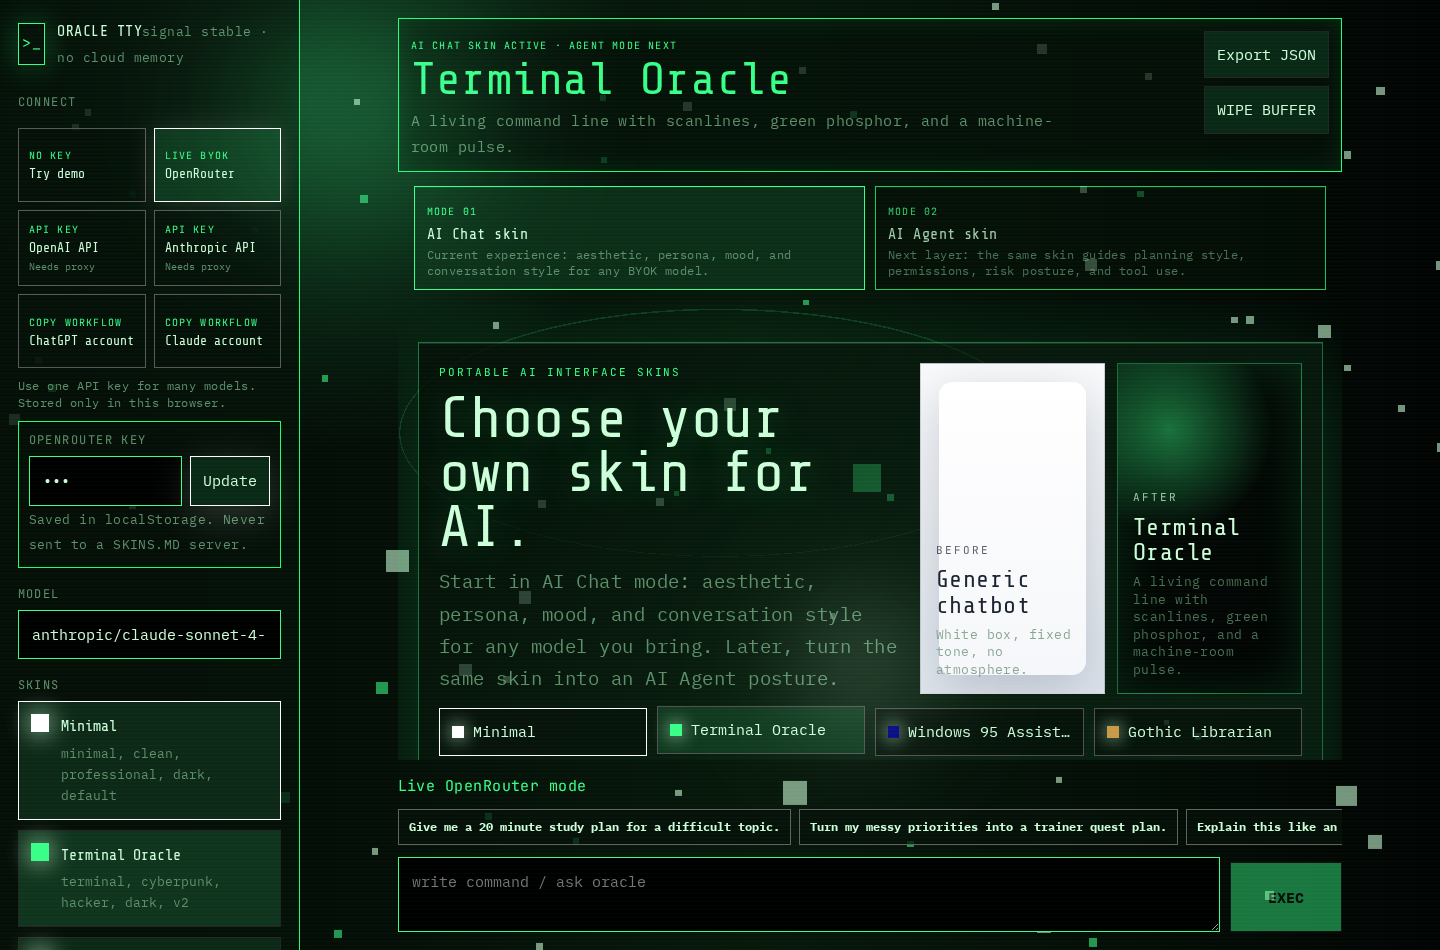
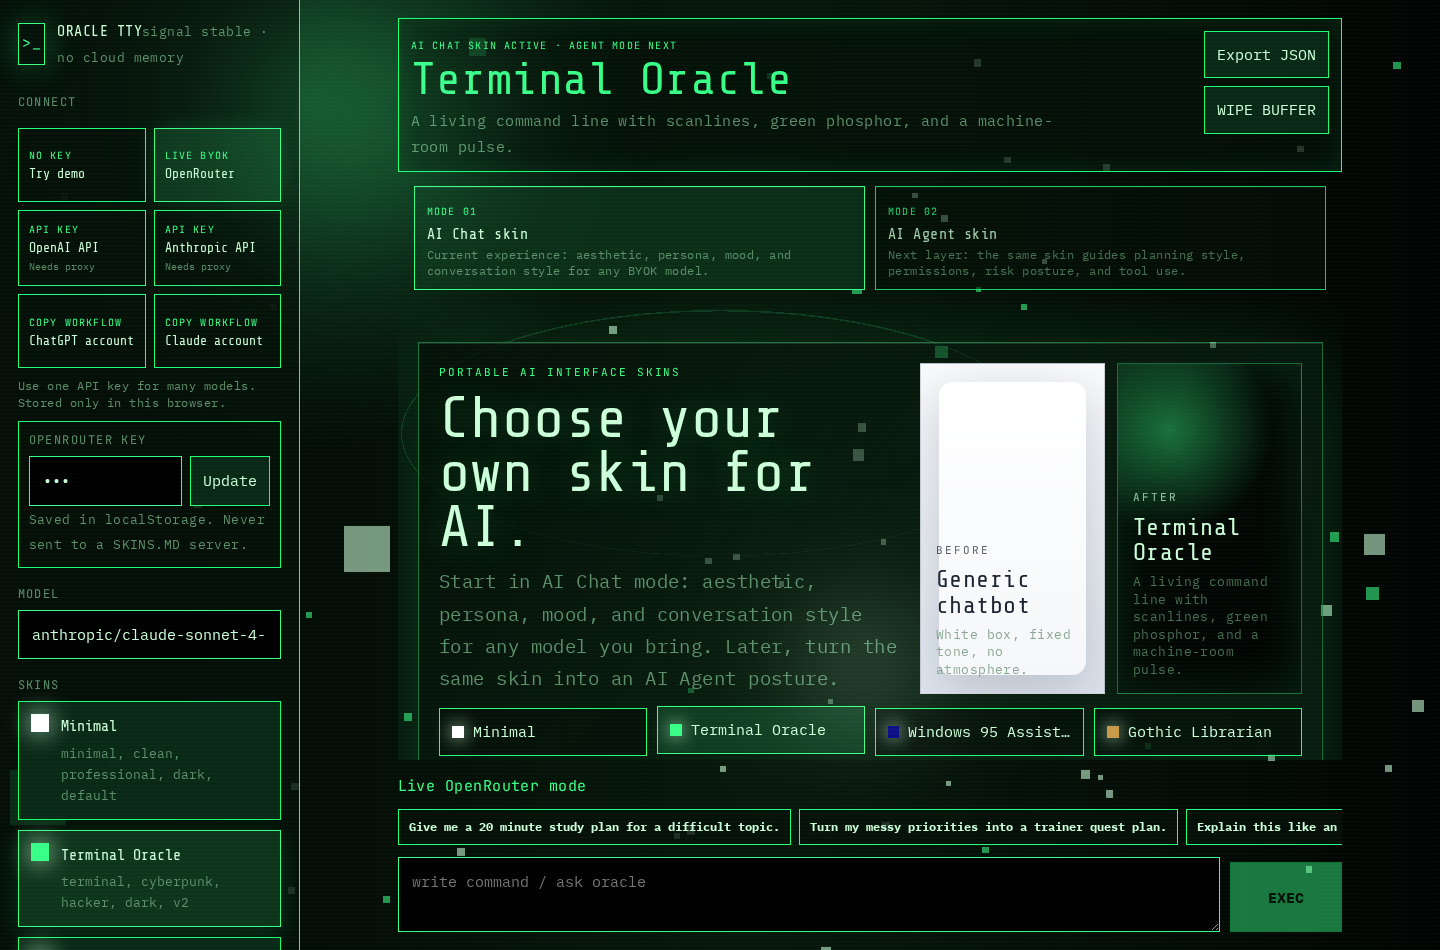
Revert "feat: simplify immersive skins with full backgrounds"
This reverts commit bb0e5864e86a04a187f2cef6a953a7c00228a27e.

diff --git a/src/styles.css b/src/styles.css
@@ -135,73 +135,3 @@ body[data-skin="pokemon-trainer"] textarea,body[data-skin="pokemon-trainer"] inp
 body[data-skin="pokemon-trainer"] .composer > button{background:linear-gradient(180deg,var(--poke-red),#b91c1c);color:#fff;border-radius:999px;font-size:17px;text-shadow:1px 1px 0 #000;}
 body[data-skin="pokemon-trainer"] .prompt-chips button{background:#fff;color:var(--poke-ink);font-size:12px;}
 body[data-skin="pokemon-trainer"] .visual-hud{border:3px solid var(--poke-ink);background:rgba(255,248,216,.94);color:var(--poke-ink);box-shadow:4px 4px 0 var(--poke-blue);}
-
-/* Immersive redesign V1: clean chat UI, full-background skin impact, hidden secondary controls. */
-.immersive-skin-shell{grid-template-columns:0 minmax(0,1fr);padding:28px 24px 30px;min-height:100vh;overflow:hidden;}
-.immersive-skin-shell .sidebar{position:fixed;left:18px;top:18px;bottom:auto;width:52px;max-height:52px;z-index:40;overflow:hidden;padding:0;border-radius:999px;background:rgba(255,255,255,.72);backdrop-filter:blur(18px);box-shadow:0 14px 40px rgba(0,0,0,.18);transition:width .2s ease,max-height .2s ease,border-radius .2s ease,padding .2s ease;}
-.immersive-skin-shell .sidebar:hover,.immersive-skin-shell .sidebar:focus-within{width:min(330px,calc(100vw - 36px));max-height:calc(100vh - 36px);overflow:auto;padding:14px;border-radius:24px;}
-.immersive-skin-shell .brand{height:52px;margin:0;padding:7px;gap:8px;background:transparent;border:0;box-shadow:none;}
-.immersive-skin-shell .sidebar:not(:hover):not(:focus-within) .brand div,.immersive-skin-shell .sidebar:not(:hover):not(:focus-within) .connection-box,.immersive-skin-shell .sidebar:not(:hover):not(:focus-within) section,.immersive-skin-shell .sidebar:not(:hover):not(:focus-within) .actions{display:none;}
-.immersive-skin-shell .avatar{width:38px;height:38px;min-width:38px;}
-.immersive-skin-shell .chat-panel{width:min(860px,calc(100vw - 52px));margin:0 auto;display:flex;flex-direction:column;gap:12px;min-height:calc(100vh - 58px);position:relative;z-index:2;}
-.immersive-skin-shell .mode-switch,.immersive-skin-shell .top-actions,.immersive-skin-shell .prompt-chips{display:none!important;}
-.immersive-skin-shell .topbar{padding:12px 16px;border:0;background:rgba(255,255,255,.08);backdrop-filter:blur(20px);box-shadow:none;}
-.immersive-skin-shell .topbar h1{font-size:clamp(25px,3.5vw,42px);line-height:.98;margin:0;}
-.immersive-skin-shell .topbar p{max-width:560px;margin-top:6px;opacity:.76;}
-.immersive-skin-shell .mode-kicker{opacity:.68;}
-.immersive-skin-shell .messages{flex:1;min-height:0;padding:18px;border:0;box-shadow:0 26px 100px rgba(0,0,0,.2);backdrop-filter:blur(22px);overflow:auto;scrollbar-width:thin;}
-.immersive-skin-shell .onboarding-hero{display:none;}
-.immersive-skin-shell .empty{min-height:40vh;display:grid;place-items:center;text-align:center;font-size:clamp(30px,6vw,74px);font-weight:900;line-height:.95;letter-spacing:-.05em;background:transparent;border:0;box-shadow:none;opacity:.88;}
-.immersive-skin-shell .message{max-width:min(680px,88%);border:0;box-shadow:0 18px 42px rgba(0,0,0,.16);}
-.immersive-skin-shell .message .role{text-transform:none;font-size:11px;opacity:.64;}
-.immersive-skin-shell .composer{display:grid;grid-template-columns:1fr auto;gap:10px;align-items:end;padding:10px 10px 10px 16px;border:0;box-shadow:0 18px 70px rgba(0,0,0,.28);backdrop-filter:blur(24px);position:sticky;bottom:0;}
-.immersive-skin-shell .composer .thinkline{grid-column:1 / -1;background:transparent;border:0;padding:0;margin:0;font-size:11px;opacity:.64;box-shadow:none;}
-.immersive-skin-shell textarea{min-height:46px;max-height:150px;border:0;background:transparent;box-shadow:none;padding:12px 4px;font-size:16px;}
-.immersive-skin-shell .composer > button{min-width:54px;height:46px;border:0;border-radius:999px;box-shadow:none;padding:0 18px;font-size:14px;}
-body[data-skin="windows-95-assistant"] .app-shell.immersive-skin-shell{background:url('/skins/windows95-chatdesk-bg.svg') center/cover no-repeat fixed;}
-body[data-skin="windows-95-assistant"] .app-shell.immersive-skin-shell:before{content:"";position:fixed;inset:0;background:radial-gradient(circle at 50% 20%,rgba(255,255,255,.16),transparent 35%),linear-gradient(90deg,rgba(0,0,0,.16),transparent 24%,transparent 76%,rgba(0,0,0,.2));pointer-events:none;z-index:0;}
-body[data-skin="windows-95-assistant"] .win95-desktop-shell{opacity:.58;}
-body[data-skin="windows-95-assistant"] .win95-desktop-icons{display:none;}
-body[data-skin="windows-95-assistant"] .chat-panel{width:min(820px,calc(100vw - 54px));justify-content:center;}
-body[data-skin="windows-95-assistant"] .topbar.win95-app-window{background:var(--win-face);border:2px solid;border-color:#fff #404040 #404040 #fff;padding:0;box-shadow:10px 14px 0 rgba(0,0,0,.24),0 24px 80px rgba(0,0,0,.32);}
-body[data-skin="windows-95-assistant"] .win95-client-area{padding:14px 16px 12px;min-height:90px;}
-body[data-skin="windows-95-assistant"] .win95-client-area h1{font-size:26px;line-height:1;color:#000;text-shadow:none;letter-spacing:0;}
-body[data-skin="windows-95-assistant"] .win95-client-area p{font-size:13px;color:#111;max-width:560px;}
-body[data-skin="windows-95-assistant"] .messages{background:rgba(255,255,255,.88);border:2px solid;border-color:#404040 #fff #fff #404040;border-radius:0;color:#000;}
-body[data-skin="windows-95-assistant"] .empty{font-family:Tahoma,Arial,sans-serif;font-size:clamp(28px,4.8vw,58px);color:#000080;text-shadow:2px 2px 0 #fff;letter-spacing:-.04em;}
-body[data-skin="windows-95-assistant"] .message{border:1px solid #808080;border-radius:0;background:#fff;color:#000;box-shadow:4px 4px 0 rgba(0,0,0,.18);}
-body[data-skin="windows-95-assistant"] .message.user{background:#000080;color:#fff;}
-body[data-skin="windows-95-assistant"] .composer{background:var(--win-face);border:2px solid;border-color:#fff #404040 #404040 #fff;border-radius:0;}
-body[data-skin="windows-95-assistant"] .composer .thinkline{font-family:Tahoma,Arial,sans-serif;color:#000;}
-body[data-skin="windows-95-assistant"] textarea{background:#fff;border:2px solid;border-color:#404040 #fff #fff #404040;border-radius:0;color:#000;font-family:Tahoma,Arial,sans-serif;}
-body[data-skin="windows-95-assistant"] .composer > button{border:2px solid;border-color:#fff #404040 #404040 #fff;border-radius:0;background:#c0c0c0;color:#000;font-family:Tahoma,Arial,sans-serif;}
-body[data-skin="windows-95-assistant"] .sidebar{background:var(--win-face);border:2px solid;border-color:#fff #404040 #404040 #fff;border-radius:0;}
-body[data-skin="pokemon-trainer"] .app-shell.immersive-skin-shell{background:url('/skins/pokemon-meadow-bg.svg') center/cover no-repeat fixed;}
-body[data-skin="pokemon-trainer"] .app-shell.immersive-skin-shell:before{content:"";position:fixed;inset:0;background:radial-gradient(circle at 50% 18%,rgba(255,255,255,.28),transparent 28%),linear-gradient(180deg,rgba(255,244,214,.05),rgba(255,196,82,.22));pointer-events:none;z-index:0;}
-body[data-skin="pokemon-trainer"] .chat-panel{width:min(900px,calc(100vw - 54px));justify-content:end;padding-top:8vh;}
-body[data-skin="pokemon-trainer"] .topbar{align-self:center;width:min(720px,100%);text-align:center;background:rgba(255,255,255,.18);border:1px solid rgba(255,255,255,.42);border-radius:28px;color:#fff;box-shadow:none;text-shadow:0 2px 12px rgba(31,42,68,.35);}
-body[data-skin="pokemon-trainer"] .topbar:before{display:none;}
-body[data-skin="pokemon-trainer"] .topbar h1{color:#fff;text-shadow:0 3px 0 rgba(31,42,68,.28),0 12px 42px rgba(47,109,181,.5);font-size:clamp(42px,7vw,92px);}
-body[data-skin="pokemon-trainer"] .topbar p{margin-inline:auto;color:#fff;opacity:.88;font-weight:800;}
-body[data-skin="pokemon-trainer"] .messages{flex:0 1 auto;min-height:46vh;max-height:58vh;background:linear-gradient(180deg,rgba(255,255,255,.08),rgba(255,248,216,.22));border-radius:34px;box-shadow:none;backdrop-filter:none;padding:18px 20px 8px;}
-body[data-skin="pokemon-trainer"] .messages:before{display:none;}
-body[data-skin="pokemon-trainer"] .empty{min-height:36vh;color:#fff;text-shadow:0 4px 0 rgba(31,42,68,.3),0 20px 60px rgba(47,109,181,.42);font-size:clamp(44px,8vw,104px);}
-body[data-skin="pokemon-trainer"] .message{border:4px solid #263238;border-radius:24px;box-shadow:0 8px 0 rgba(31,42,68,.22),0 22px 58px rgba(31,42,68,.18);background:#fff8d8;}
-body[data-skin="pokemon-trainer"] .message.user{background:#2f6db5;color:#fff;margin-left:auto;}
-body[data-skin="pokemon-trainer"] .message.assistant{background:rgba(255,248,216,.96);}
-body[data-skin="pokemon-trainer"] .composer{background:rgba(255,248,216,.95);border:4px solid #263238;border-radius:28px;box-shadow:0 9px 0 rgba(31,42,68,.25),0 28px 70px rgba(31,42,68,.24);}
-body[data-skin="pokemon-trainer"] textarea{background:transparent;border:0;color:#1f2a44;box-shadow:none;}
-body[data-skin="pokemon-trainer"] .composer > button{background:#e53935;color:#fff;border:0;border-radius:999px;box-shadow:0 5px 0 #93211f;}
-body[data-skin="pokemon-trainer"] .sidebar{background:rgba(255,248,216,.9);border:4px solid #263238;border-radius:28px;}
-@media(max-width:760px){.immersive-skin-shell{padding:18px 12px 20px}.immersive-skin-shell .chat-panel{width:100%;min-height:calc(100vh - 38px)}.immersive-skin-shell .sidebar{left:12px;top:12px}.immersive-skin-shell .messages{max-height:none;min-height:52vh}.immersive-skin-shell .topbar p{display:none}}
-
-/* polish after visual QA */
-html,body,#root{min-height:100%;margin:0;}
-body[data-skin="windows-95-assistant"] .win95-start-menu{display:none;}
-body[data-skin="windows-95-assistant"] .win95-task:not(.active){display:none;}
-body[data-skin="windows-95-assistant"] .win95-taskbar{opacity:.78;}
-body[data-skin="pokemon-trainer"] .avatar{background:conic-gradient(from 45deg,#e53935 0 25%,#ffd966 0 50%,#2f6db5 0 75%,#56b870 0);}
-body[data-skin="pokemon-trainer"] .avatar:after{background:#fff8d8;border-color:#263238;box-shadow:inset 0 0 0 3px #75c9f0;}
-
-body[data-skin="pokemon-trainer"]{background:url('/skins/pokemon-meadow-bg.svg') center/cover no-repeat fixed;}
-body[data-skin="windows-95-assistant"]{background:url('/skins/windows95-chatdesk-bg.svg') center/cover no-repeat fixed;}

diff --git a/src/App.tsx b/src/App.tsx
@@ -316,9 +316,8 @@ export default function App() {
 
   const thinking = busy ? <span className={`thinking ${activeSkin.atmosphere.thinking_style || 'dots'}`}>{activeSkin.voice.thinking_label}</span> : null;
   const isWin95 = activeSkin.id === 'windows-95-assistant';
-  const isImmersiveSkin = isWin95 || activeSkin.id === 'pokemon-trainer';
 
-  return <div className={`app-shell ${isWin95 ? 'win95-shell' : ''} ${isImmersiveSkin ? 'immersive-skin-shell' : ''}`}>
+  return <div className={`app-shell ${isWin95 ? 'win95-shell' : ''}`}>
     <VisualStage skin={activeSkin} pulse={pulse} />
     {isWin95 && <Win95DesktopShell />}
     <aside className="sidebar">

diff --git a/README.md b/README.md
@@ -56,4 +56,3 @@ There is no SKINS.MD backend in the MVP. Your OpenRouter key and conversations l
 - `BUSINESS_MODEL_STRATEGY_V1.md` — Phase 0 full-free BYOK business-model strategy and future sponsor/Plus/marketplace stack.
 - `WINAMP_CASE_STUDY.md` — lessons from Winamp/Webamp and next strategic steps.
 - `WINDOWS95_NOSTALGIA_RESEARCH_V1.md` — deeper Windows 95/98 UI-kit references and next implementation pass for the retro skin.
-- `IMMERSIVE_SKIN_REDESIGN_V1.md` — clean-chat + full-background skin direction inspired by Winamp skin culture, modern AI chat UIs, and game UI references.
